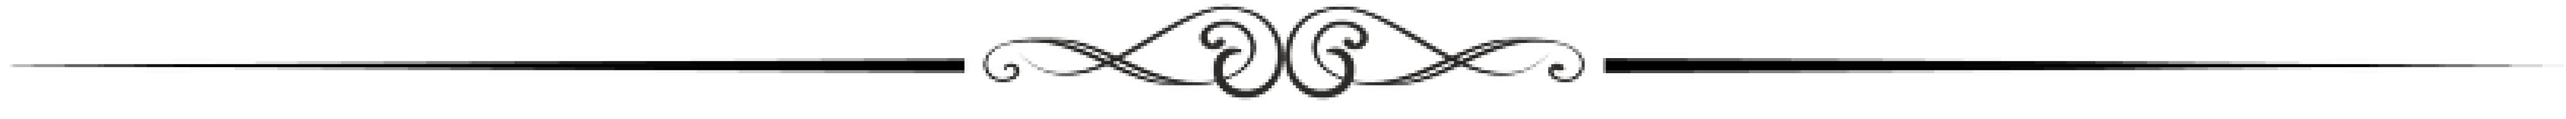
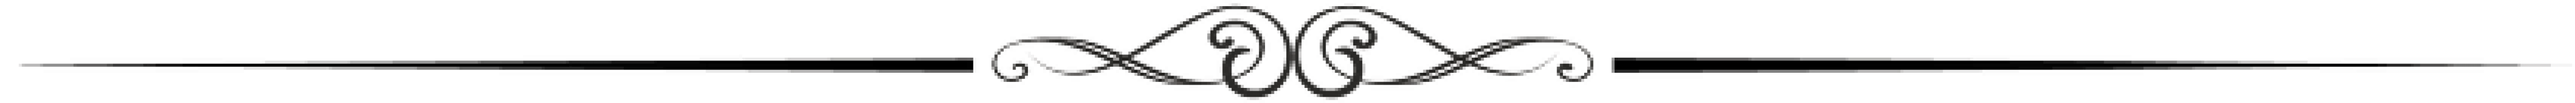
newCol

Changed region(s): [[0.0, 0.0543, 0.9954, 0.9783]]

diff --git a/style/style.css b/style/style.css
@@ -2,11 +2,13 @@ header {
     width: 100%;
     height: max-content;
     
-    background: rgb(255, 255, 255);
+   
 
 }
 
-
+body {
+    background-color: #ffc7cb;
+}
 
 
 
@@ -17,10 +19,10 @@ header {
     align-items: center;
     margin-left: auto;
     margin-right: auto;
-    
+    color: #5B2680;
     left: 0;
     right: 0;
-    color: black;
+   
     font-size: 42px;
     font-weight: 400;
     letter-spacing: 3px;
@@ -61,9 +63,10 @@ nav {
 .menu__item {
     display: flex;
     justify-content: center;
-    border: 1px solid black;
+    border: 1px solid #5B2680;
     border-radius: 15px;
     width: 100px;
     padding: 5px 10px;
     font-style: italic;
+    color: #5B2680;
 }

diff --git a/index.html b/index.html
@@ -13,7 +13,7 @@
 <body>
     <header>
         <h1 class="header__title"> Биврёст </h1>
-        <img class="razdl"src="img/razdl.png" alt="" srcset="">
+        <img class="razdl" src="img/Fotoram.io.png" alt="" srcset="">
         
     </header>
    
